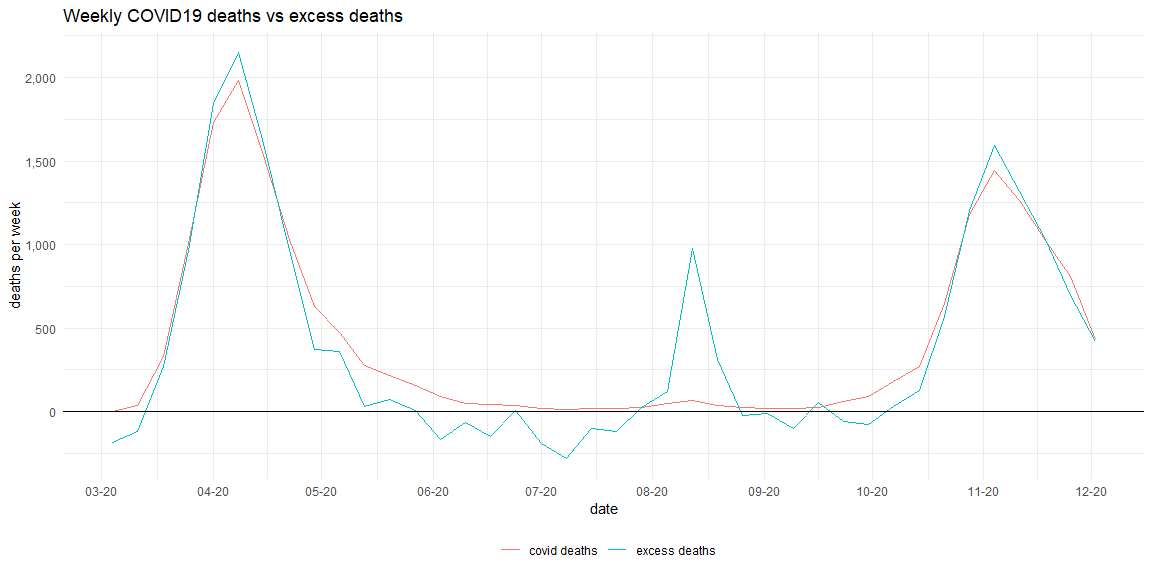
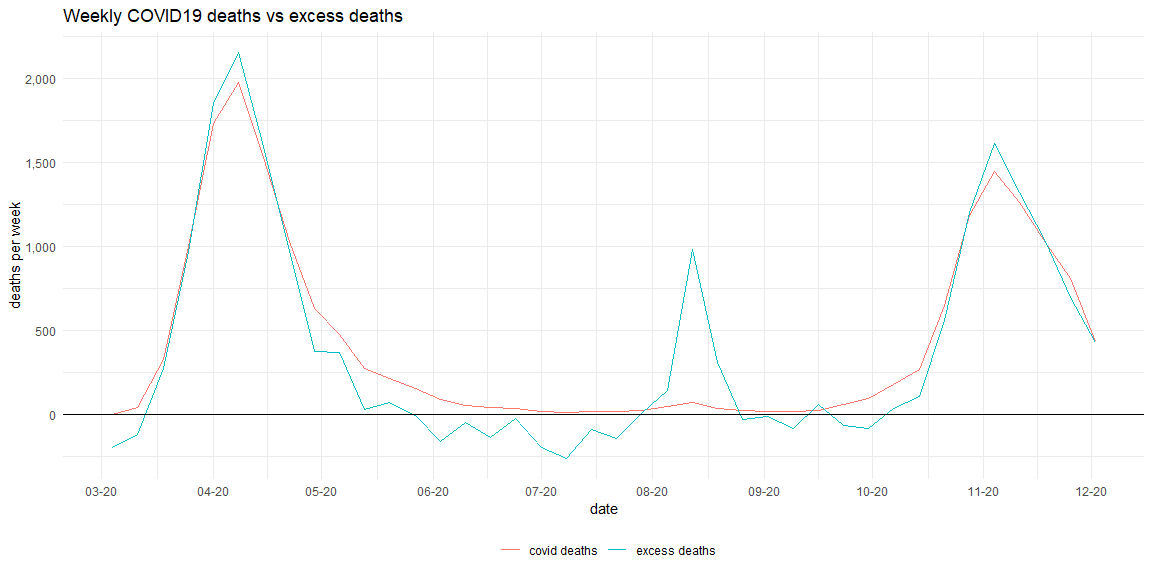
Some clean up in HMD source.

diff --git a/rendered/Belgium_en.md b/rendered/Belgium_en.md
@@ -1,4 +1,4 @@
-Analysis of Belgian mortality data in 2020
+An analysis of excess mortality in 2020 in Belgium
 ================
 Gael Fraiteur
 
@@ -56,11 +56,12 @@ please open an issue on GitHub or, better, submit a pull request.
 ## About the author
 
 Gael Fraiteur graduated from the Louvain School of Engineering in 2001
-as a civil engineer in applied mathematics. He has worked since then in
-the software industry. In 2004, he started an open-source project named
+as a civil engineer in applied mathematics. He also holds two minor
+degrees in philosophy from UCLouvain. He has worked since then in the
+software industry. In 2004, he started an open-source project named
 PostSharp. In 2009, he founded a company to market and develop the
 product. As the CEO and principal engineer of PostSharp Technologies,
-Gael now shares his time between R\&D, management and marketing.
+the author now shares his time between R\&D, management and marketing.
 
 ## Data sources
 
@@ -149,12 +150,12 @@ groups, which seems to mean that these age groups are more sensitive to
 events that happen less than once a year, such as epidemics or
 exceptional weather.
 
-![](Belgium_en_files/figure-gfm/unnamed-chunk-3-1.png)<!-- -->
+![](Belgium_en_files/figure-gfm/unnamed-chunk-3-1.png)<!-- -->![](Belgium_en_files/figure-gfm/unnamed-chunk-3-2.png)<!-- -->
 
 We model the death rate with a linear regression for each age and sex.
-This model allows us to extrapolate the data to 2019 and 2020, but it
-also removes the year-to-year variations for all previous years. That
-is, this death rate model removes the effect of epidemics and weather
+This model allows us to extrapolate the data to 2019 and 2020, and
+removes the year-to-year variations for all previous years. That is,
+this death rate model removes the effect of epidemics and weather
 conditions that happen less frequently than yearly.
 
 Once we have a death rate model for each group and year, we multiply
@@ -184,14 +185,14 @@ Let’s now compare the projections with the reality:
 
 ![](Belgium_en_files/figure-gfm/unnamed-chunk-6-1.png)<!-- -->
 
-### Splitting years into weeks
+### 3\. Splitting years into weeks
 
 We now have a yearly model, but we need weekly projections. For our
-weekly model, we first compute the percent of deaths, for each age
-group, that happens in a given week of the year, and we multiply this
+weekly model, we first compute, for each sex and age group, the percent
+of deaths that happens in a given week of the year, and we multiply this
 coefficient with the yearly death rate for this year. Note that we
-didn’t compute a different coefficient for each sex because the data
-is already noisy enough, especially for younger age groups.
+applied a 3-week centered rolling mean to the data series before
+aggregating per week of year.
 
 ![](Belgium_en_files/figure-gfm/unnamed-chunk-7-1.png)<!-- -->
 
@@ -245,9 +246,9 @@ data for the period from 2009 to 2019. It is important to understand how
 arbitrary this zero is.
 
 The cumulative maximal death deficit was observed on March 11th, 2020,
-with a value of 1801 (point represented in green in the graph above). So
+with a value of 1873 (point represented in green in the graph above). So
 when comparing the expected cumulative mortality with the real
-cumulative mortality, a difference of 1801 can be obtained just by
+cumulative mortality, a difference of 1873 can be obtained just by
 choosing a different beginning of the comparison time window.
 
 ### Excess death rate by age group
@@ -260,18 +261,18 @@ the expected values for 2020.
 
 | Age group | Sex | Expected death rate | Actual death rate | Absolute excess death rate | Relative excess death rate |
 | :-------- | :-- | :------------------ | :---------------- | :------------------------- | :------------------------- |
-| 0-24      | F   | 0.02%               | 0.01%             | \-0.007%                   | \-34%                      |
-| 0-24      | M   | 0.03%               | 0.02%             | \-0.011%                   | \-35%                      |
+| 0-24      | F   | 0.02%               | 0.01%             | \-0.008%                   | \-37%                      |
+| 0-24      | M   | 0.03%               | 0.02%             | \-0.012%                   | \-37%                      |
 | 25-44     | F   | 0.05%               | 0.05%             | 0.002%                     | 4%                         |
 | 25-44     | M   | 0.09%               | 0.09%             | 0.005%                     | 6%                         |
 | 45-64     | F   | 0.31%               | 0.31%             | 0.003%                     | 1%                         |
 | 45-64     | M   | 0.48%               | 0.53%             | 0.043%                     | 9%                         |
 | 65-74     | F   | 1.06%               | 1.17%             | 0.109%                     | 10%                        |
-| 65-74     | M   | 1.84%               | 2.07%             | 0.230%                     | 13%                        |
+| 65-74     | M   | 1.84%               | 2.07%             | 0.231%                     | 13%                        |
 | 75-84     | F   | 2.99%               | 3.63%             | 0.635%                     | 21%                        |
-| 75-84     | M   | 4.64%               | 5.54%             | 0.906%                     | 20%                        |
-| 85+       | F   | 12.89%              | 14.60%            | 1.704%                     | 13%                        |
-| 85+       | M   | 15.05%              | 17.22%            | 2.170%                     | 14%                        |
+| 75-84     | M   | 4.64%               | 5.54%             | 0.907%                     | 20%                        |
+| 85+       | F   | 12.89%              | 14.60%            | 1.708%                     | 13%                        |
+| 85+       | M   | 15.04%              | 17.22%            | 2.176%                     | 14%                        |
 
 Death rates by age group during week 1-49 of 2020
 
@@ -280,7 +281,7 @@ The following graph shows the relative values only:
 ![](Belgium_en_files/figure-gfm/unnamed-chunk-12-1.png)<!-- -->
 
 As you can see, the age group whose death rate is the most different in
-2020 than the expectation is the younger one, which had 35% less risk to
+2020 than the expectation is the younger one, which had 37% less risk to
 die in 2020 than in another year. We will come back to this number.
 
 The age group whose death rate is the most negatively affected in 2020
@@ -373,8 +374,8 @@ discussed is the death deficit after the spring peak.
 
 ### Death peak in August
 
-The number excess deaths during the heat wave of August 2020 was 1383.
-By comparison, the heat wave of July 2019 caused an excess death of 170:
+The number excess deaths during the heat wave of August 2020 was 1407.
+By comparison, the heat wave of July 2019 caused an excess death of 155:
 10 times less.
 
 Can this be explained by exceptional temperatures? The following graphs
@@ -400,8 +401,8 @@ This is more visible on the cumulative excess deaths graph
 
 ![](Belgium_en_files/figure-gfm/unnamed-chunk-20-1.png)<!-- -->
 
-During the spring peak, the cumulative excess death was 8643. During the
-summer, before the August peak, the death deficit was 1074, that is,
+During the spring peak, the cumulative excess death was 8674. During the
+summer, before the August peak, the death deficit was 1078, that is,
 approximately 12% of people who died during of COVID19 during spring had
 their life shortened by less than 3 months.
 
@@ -413,14 +414,14 @@ the number of COVID19 deaths.
 ![](Belgium_en_files/figure-gfm/unnamed-chunk-22-1.png)<!-- -->
 
 The numbers are quite similar, except for the oldest age group where
-COVID19 deaths are 1669 (22%) higher than excess deaths. This means than
+COVID19 deaths are 1633 (22%) higher than excess deaths. This means than
 an approximate 20% of the people over 85 who died of COVID19 during 2020
 (or were diagnosed as such) would have died from another cause in the
 same period
 
 ## Decreased death rate of the youngest age group
 
-The death rate of the 0-24 age group is 35% lower in 2020 than expected.
+The death rate of the 0-24 age group is 37% lower in 2020 than expected.
 How can we explain this significant difference? Intuitively, this could
 be explained by the lower exposure to risk of accidents. Let’s test this
 hypothesis based on the *Causes of death by month, sex, age group and
@@ -589,7 +590,7 @@ It has been repeated *ad nauseam* that the economics must not prevail
 over human life. This oversimplified moral imperative has been used to
 justify the sacrifice of small businesses, students and other segments
 of the population, or the air transportation industry. This motto must
-be questioned. At least, the media should return it to a few mega
+be questioned. At least, the media should return it to a few big
 companies in industries like food, oil, tobacco or pharmacy – to see if
 really still applies to everybody.
 
